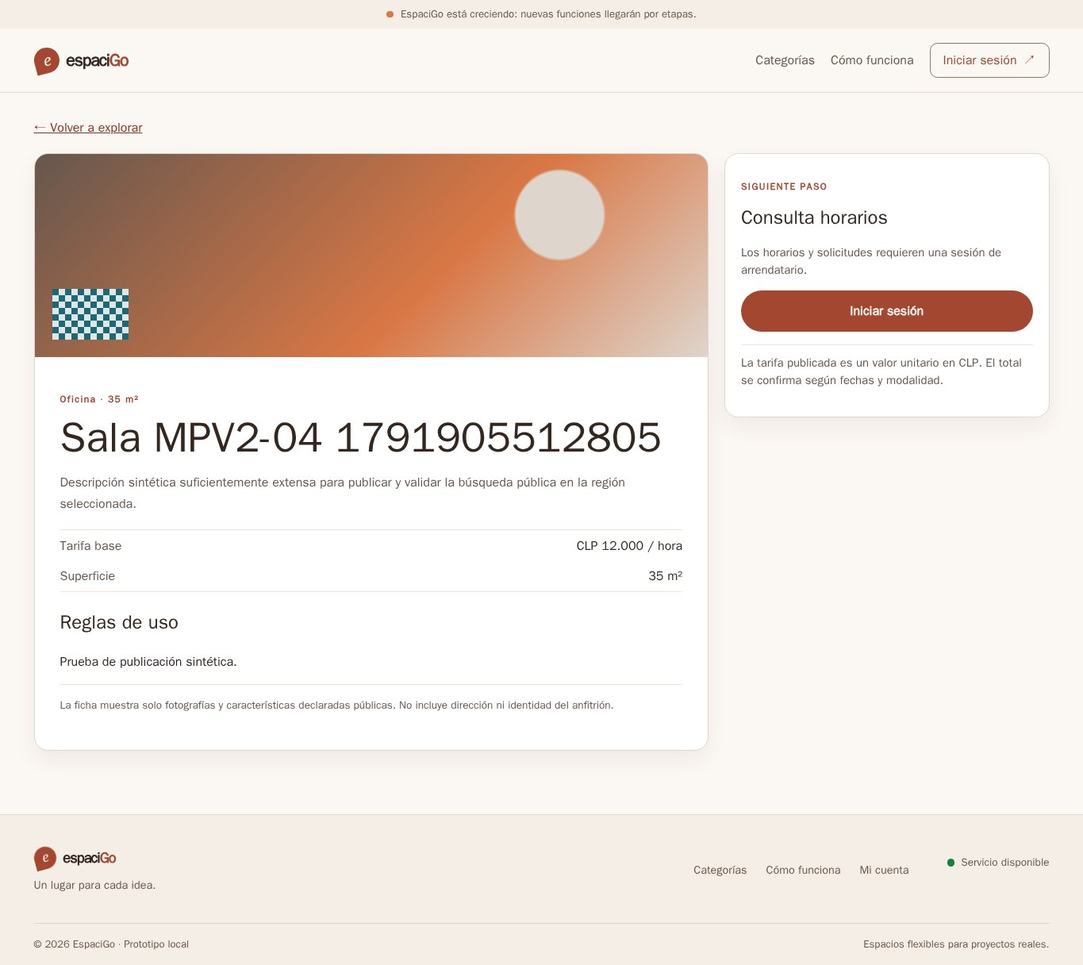
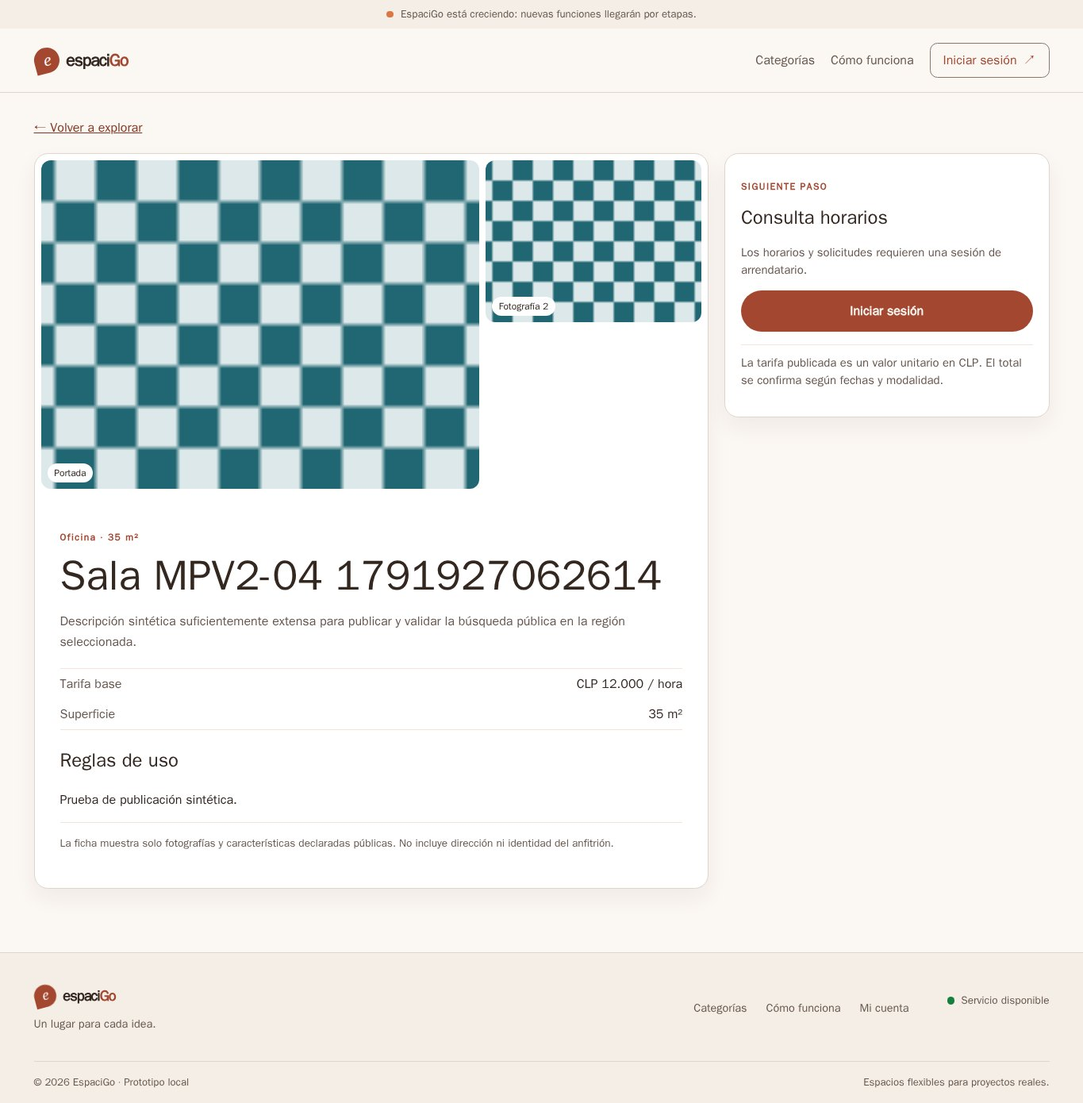
fix(marketplace): address MPV2-04 review

diff --git a/frontend/src/app/features/explore/space-detail-page.spec.ts b/frontend/src/app/features/explore/space-detail-page.spec.ts
@@ -21,6 +21,30 @@ describe('SpaceDetailPage public detail',()=>{
   const fixture=TestBed.createComponent(SpaceDetailPage);fixture.detectChanges();await vi.waitFor(()=>expect(api.publicDetail).toHaveBeenCalledWith('space-123'));await vi.waitFor(()=>expect((fixture.componentInstance as unknown as {space:()=>unknown}).space()).toBeTruthy());fixture.detectChanges();
   expect(fixture.nativeElement.textContent).toContain('Sala pública');expect(fixture.nativeElement.textContent).toContain('CLP 9.007.199.254.740.993');expect(fixture.nativeElement.textContent).toContain('Fotografía no disponible');fixture.destroy();
  });
+ it('renders every public reference with the cover first and omits images that return 404',async()=>{
+  const params=new BehaviorSubject(convertToParamMap({id:'space-123'}));
+  const api={publicDetail:vi.fn().mockResolvedValue({space_id:'space-123',category_code:'oficina',category_name:'Oficina',title:'Galería',description:'Descripción',area_m2:30,rate_unit:'dia',base_price_clp:'9000',currency:'CLP',images:[{image_id:'photo-a',is_cover:false},{image_id:'photo-cover',is_cover:true}]}),publicImageUrl:vi.fn((_spaceId:string,imageId:string)=>`/public/${imageId}`)};
+  TestBed.configureTestingModule({imports:[SpaceDetailPage],providers:[...provideFrontendPorts(),provideHttpClient(),provideRouter([]),{provide:ActivatedRoute,useValue:{paramMap:params.asObservable()}},{provide:ExploreApi,useValue:api}]});
+  const fixture=TestBed.createComponent(SpaceDetailPage);fixture.detectChanges();await vi.waitFor(()=>expect(api.publicDetail).toHaveBeenCalled());await vi.waitFor(()=>expect((fixture.componentInstance as unknown as {space:()=>unknown}).space()).toBeTruthy());fixture.detectChanges();
+  const page=fixture.componentInstance as unknown as {orderedImages(images:{image_id:string;is_cover:boolean}[]):{image_id:string;is_cover:boolean}[];imageFailed(spaceId:string,imageId:string,generation:number):void;imageAvailable(spaceId:string,imageId:string):boolean;selectImage(spaceId:string,imageId:string):void;imageSelected(spaceId:string,imageId:string):boolean;spaceGeneration:()=>number};
+  const images=[{image_id:'photo-a',is_cover:false},{image_id:'photo-cover',is_cover:true}];
+  expect(page.orderedImages(images)).toEqual([{image_id:'photo-cover',is_cover:true},{image_id:'photo-a',is_cover:false}]);
+  expect(fixture.nativeElement.querySelectorAll('.gallery-image img')).toHaveLength(2);
+  expect(fixture.nativeElement.querySelectorAll('button.gallery-image')).toHaveLength(2);page.selectImage('space-123','photo-a');expect(page.imageSelected('space-123','photo-a')).toBe(true);
+  page.imageFailed('space-123','photo-a',page.spaceGeneration());fixture.detectChanges();expect(fixture.nativeElement.querySelectorAll('.gallery-image img')).toHaveLength(1);
+  page.imageFailed('space-old','photo-cover',page.spaceGeneration());expect(page.imageAvailable('space-123','photo-cover')).toBe(true);
+  fixture.destroy();
+ });
+ it('ignores a late detail and image failure from the route that was left',async()=>{
+  const params=new BehaviorSubject(convertToParamMap({id:'space-a'}));let resolveA!:(value:unknown)=>void;
+  const api={publicDetail:vi.fn((id:string)=>id==='space-a'?new Promise(resolve=>{resolveA=resolve;}):Promise.resolve({space_id:'space-b',category_code:'oficina',category_name:'Oficina',title:'Espacio B',description:'Descripción',area_m2:20,rate_unit:'dia',base_price_clp:'9000',currency:'CLP',images:[{image_id:'photo-b',is_cover:true}]})),publicImageUrl:vi.fn((_spaceId:string,imageId:string)=>`/public/${imageId}`)};
+  TestBed.configureTestingModule({imports:[SpaceDetailPage],providers:[...provideFrontendPorts(),provideHttpClient(),provideRouter([]),{provide:ActivatedRoute,useValue:{paramMap:params.asObservable()}},{provide:ExploreApi,useValue:api}]});
+  const fixture=TestBed.createComponent(SpaceDetailPage);fixture.detectChanges();await vi.waitFor(()=>expect(api.publicDetail).toHaveBeenCalledWith('space-a'));
+  params.next(convertToParamMap({id:'space-b'}));await vi.waitFor(()=>expect((fixture.componentInstance as unknown as {space:()=>{space_id:string}|null}).space()?.space_id).toBe('space-b'));
+  const page=fixture.componentInstance as unknown as {imageFailed(spaceId:string,imageId:string,generation:number):void;imageAvailable(spaceId:string,imageId:string):boolean;spaceGeneration:()=>number};
+  page.imageFailed('space-a','photo-b',0);resolveA!({space_id:'space-a',category_code:'oficina',category_name:'Oficina',title:'Espacio A',description:'Descripción',area_m2:20,rate_unit:'dia',base_price_clp:'9000',currency:'CLP',images:[]});await Promise.resolve();fixture.detectChanges();
+  expect((fixture.componentInstance as unknown as {space:()=>{title:string}|null}).space()?.title).toBe('Espacio B');expect(page.imageAvailable('space-b','photo-b')).toBe(true);fixture.destroy();
+ });
  it('keeps public detail during identity changes',async()=>{
   const params=new BehaviorSubject(convertToParamMap({id:'space-123'}));
   const api={publicDetail:vi.fn().mockResolvedValue({space_id:'space-123',category_code:'oficina',category_name:'Oficina',title:'Visible',description:'Descripción',area_m2:30,rate_unit:'dia',base_price_clp:'6000',currency:'CLP'})};

diff --git a/frontend/src/app/features/hosting/hosting-spaces-page.spec.ts b/frontend/src/app/features/hosting/hosting-spaces-page.spec.ts
@@ -81,6 +81,9 @@ function apiFor(base = space()) {
     ),
     remove: vi.fn(async () => ({ files_pending_cleanup: 0 })),
     gallery: vi.fn(async () => ({ items: [], max_photos: 10 as const, synthetic: true as const })),
+    setPhotoPublic: vi.fn(async (_token: string, _spaceId: string, photoId: string, public_in_catalog: boolean) => ({
+      id: photoId, public_in_catalog,
+    } as never)),
     addPhoto: vi.fn(async (_token: string, _spaceId: string, _key: string) => ({
       id: 'photo-1',
       fixture_code: 'synthetic-png-v1' as const,
@@ -1008,5 +1011,42 @@ describe('FE-06 HostingSpacesPage', () => {
     expect(before).toContain('01:30');
     expect(after).toContain('01:30');
     expect(before).not.toBe(after);
+  });
+
+  it('ignores stale photo publication failures without clearing a newer save or session', async () => {
+    const api=apiFor();
+    const idApi={login:vi.fn().mockResolvedValueOnce(login('owner-a','bearer-a')).mockResolvedValueOnce(login('owner-b','bearer-b')),session:vi.fn().mockImplementation(async(token:string)=>({account_id:token==='bearer-a'?'owner-a':'owner-b',roles:['arrendador'],restricted_mode:false})),logout:vi.fn().mockResolvedValue(undefined)};
+    const {identity}=setup(api,null,idApi);await identity.signIn('owner-a@example.invalid','secret');
+    const fixture=TestBed.createComponent(HostingSpacesPage);fixture.detectChanges();await flush();
+    const component=page(fixture);const first=deferred<never>();const second=deferred<never>();
+    api.setPhotoPublic.mockReturnValueOnce(first.promise).mockReturnValueOnce(second.promise);
+    const oldWrite=component.setPhotoPublic('photo-1',true);await flush();
+    await identity.signOut();await identity.signIn('owner-b@example.invalid','secret');await flush();await vi.waitFor(()=>expect(component.selectedSpace()?.id).toBe('space-a'));
+    const newWrite=component.setPhotoPublic('photo-1',true);await flush();
+    first.reject(new HostingApiError('stale unauthorized',401));await oldWrite;
+    expect(identity.accessToken()).toBe('bearer-b');expect(component.saving()).toBe(true);expect(component.error()).toBe('');
+    second.reject(new HostingApiError('current failure',503));await newWrite;
+    expect(component.saving()).toBe(false);expect(component.error()).not.toBe('');fixture.destroy();
+  });
+
+  it('expires the current bearer on a photo publication 401 even when its resource revision changed', async () => {
+    const api=apiFor();const {identity}=setup(api);await identity.signIn('owner@example.invalid','secret');
+    const fixture=TestBed.createComponent(HostingSpacesPage);fixture.detectChanges();await flush();const component=page(fixture);
+    const pending=deferred<never>();api.setPhotoPublic.mockReturnValueOnce(pending.promise);
+    const write=component.setPhotoPublic('photo-1',true);await flush();
+    // A newer resource write supersedes presentation of the old response while retaining its Bearer.
+    const superseding=component.setPhotoPublic('photo-1',false);await flush();
+    pending.reject(new HostingApiError('unauthorized',401));await write;
+    expect(identity.accessToken()).toBeNull();await superseding;fixture.destroy();
+  });
+
+  it('does not let a late successful photo update finish a newer pending write', async () => {
+    const api=apiFor();const {identity}=setup(api);await identity.signIn('owner@example.invalid','secret');
+    const fixture=TestBed.createComponent(HostingSpacesPage);fixture.detectChanges();await flush();const component=page(fixture);await vi.waitFor(()=>expect(component.selectedSpace()?.id).toBe('space-a'));
+    const old=deferred<never>();const current=deferred<never>();api.setPhotoPublic.mockReturnValueOnce(old.promise).mockReturnValueOnce(current.promise);
+    const oldWrite=component.setPhotoPublic('photo-1',true);await flush();const currentWrite=component.setPhotoPublic('photo-1',false);await flush();
+    old.resolve({id:'photo-1',public_in_catalog:true} as never);await oldWrite;
+    expect(component.saving()).toBe(true);expect(component.gallery().find(photo=>photo.id==='photo-1')?.public_in_catalog).not.toBe(true);
+    current.reject(new HostingApiError('current failure',503));await currentWrite;fixture.destroy();
   });
 });

diff --git a/frontend/src/app/features/explore/space-detail-page.ts b/frontend/src/app/features/explore/space-detail-page.ts
@@ -1,5 +1,5 @@
 import { UiButton } from '../../shared/ui/button/button';
-import { Component, inject } from '@angular/core';
+import { Component, effect, inject, signal } from '@angular/core';
 import { RouterLink } from '@angular/router';
 import { SpaceDetailFacade } from './application/space-detail-facade';
 
@@ -12,6 +12,22 @@ import { SpaceDetailFacade } from './application/space-detail-facade';
 })
 export class SpaceDetailPage {
   private readonly facade = inject(SpaceDetailFacade);
+  readonly failedImages = signal<{ spaceId: string; generation: number; ids: Set<string> }>({ spaceId: '', generation: 0, ids: new Set() });
+  readonly selectedImage = signal<{ spaceId: string; generation: number; imageId: string } | null>(null);
+  readonly spaceGeneration = signal(0);
+  private observedSpaceId = '';
+  constructor() {
+    effect(() => {
+      const spaceId = this.space()?.space_id ?? '';
+      if (spaceId !== this.observedSpaceId) {
+        this.observedSpaceId = spaceId;
+        const generation = this.spaceGeneration() + 1;
+        this.spaceGeneration.set(generation);
+        this.failedImages.set({ spaceId, generation, ids: new Set() });
+        this.selectedImage.set(null);
+      }
+    });
+  }
   get space() {
     return this.facade.space;
   }
@@ -63,4 +79,29 @@ export class SpaceDetailPage {
   readonly attributeLabel = this.facade.attributeLabel.bind(this.facade);
   readonly attributeValue = this.facade.attributeValue.bind(this.facade);
   readonly publicImageUrl = this.facade.publicImageUrl.bind(this.facade);
+  orderedImages(images: { image_id: string; is_cover: boolean }[] = []) {
+    return [...images].sort((a, b) => Number(b.is_cover) - Number(a.is_cover));
+  }
+  imageFailed(spaceId: string, imageId: string, generation: number): void {
+    if (this.space()?.space_id !== spaceId || this.spaceGeneration() !== generation) return;
+    const state = this.failedImages();
+    const ids = state.spaceId === spaceId && state.generation === generation ? new Set(state.ids) : new Set<string>();
+    ids.add(imageId);
+    this.failedImages.set({ spaceId, generation, ids });
+  }
+  imageAvailable(spaceId: string, imageId: string): boolean {
+    const state = this.failedImages();
+    return state.spaceId !== spaceId || state.generation !== this.spaceGeneration() || !state.ids.has(imageId);
+  }
+  hasAvailableImage(spaceId: string, images: { image_id: string; is_cover: boolean }[] = []): boolean {
+    return images.some((image) => this.imageAvailable(spaceId, image.image_id));
+  }
+  selectImage(spaceId: string, imageId: string): void {
+    if (this.space()?.space_id === spaceId && this.imageAvailable(spaceId, imageId))
+      this.selectedImage.set({ spaceId, generation: this.spaceGeneration(), imageId });
+  }
+  imageSelected(spaceId: string, imageId: string): boolean {
+    const selected = this.selectedImage();
+    return selected?.spaceId === spaceId && selected.generation === this.spaceGeneration() && selected.imageId === imageId;
+  }
 }

diff --git a/frontend/src/app/features/explore/space-detail-page.html b/frontend/src/app/features/explore/space-detail-page.html
@@ -5,7 +5,12 @@
   @if(space();as item){
     <div class="detail-grid">
       <article class="space-detail panel">
-        @if(item.images?.length){<div class="cover"><img [src]="publicImageUrl(item.images[0].image_id)" alt="Fotografía pública del espacio" loading="lazy" /></div>}@else{<div class="cover" aria-label="Fotografía no disponible"><span>Fotografía no disponible</span><b aria-hidden="true">✳</b></div>}
+        @if(item.images?.length){<div class="gallery" aria-label="Galería pública del espacio">
+          @for(image of orderedImages(item.images);track image.image_id;let index=$index){
+            @if(imageAvailable(item.space_id,image.image_id)){<button class="gallery-image" [class.cover-image]="index===0" [class.selected-image]="imageSelected(item.space_id,image.image_id)" type="button" [attr.aria-pressed]="imageSelected(item.space_id,image.image_id)" [attr.aria-label]="(image.is_cover?'Portada':'Fotografía '+(index+1))+', seleccionar fotografía'" (click)="selectImage(item.space_id,image.image_id)"><img [src]="publicImageUrl(image.image_id)" [alt]="image.is_cover?'Fotografía de portada del espacio':'Fotografía pública '+(index+1)" loading="lazy" (error)="imageFailed(item.space_id,image.image_id,spaceGeneration())" /><span class="gallery-caption">{{image.is_cover?'Portada':'Fotografía '+(index+1)}}</span></button>}
+          }
+          @if(!hasAvailableImage(item.space_id,item.images)){<div class="cover" aria-label="Fotografías no disponibles"><span>Fotografías no disponibles</span><b aria-hidden="true">✳</b></div>}
+        </div>}@else{<div class="cover" aria-label="Fotografía no disponible"><span>Fotografía no disponible</span><b aria-hidden="true">✳</b></div>}
         <div class="copy"><p class="eyebrow">{{item.category_name}} · {{item.area_m2}} m²</p><h1>{{item.title}}</h1>
           <p class="description">{{item.description}}</p><div class="facts"><p><span>Tarifa base</span><strong>{{formatClp(item.base_price_clp)}} / {{item.rate_unit}}</strong></p><p><span>Superficie</span><strong>{{item.area_m2}} m²</strong></p></div>
           @if(item.usage_rules){<h2>Reglas de uso</h2><p>{{item.usage_rules}}</p>}

diff --git a/frontend/src/app/features/explore/space-detail-page.scss b/frontend/src/app/features/explore/space-detail-page.scss
@@ -42,6 +42,13 @@
     radial-gradient(circle at 78% 30%, var(--color-border) 0 8%, transparent 8.5%),
     linear-gradient(135deg, var(--color-text-muted), var(--brand-accent) 60%, var(--color-border));
 }
+.gallery { display:grid; grid-template-columns:repeat(auto-fit,minmax(9rem,1fr)); gap:metrics.$space-0-5rem; padding:metrics.$space-0-5rem; }
+.gallery-image { position:relative; display:block; min-width:0; aspect-ratio:4/3; overflow:hidden; border:0; border-radius:var(--radius-lg); padding:0; background:var(--color-surface-subtle); cursor:pointer; }
+.gallery-image:focus-visible { outline:3px solid var(--brand-primary); outline-offset:2px; }
+.gallery-image.selected-image { box-shadow:0 0 0 3px var(--brand-primary); }
+.gallery-image.cover-image { grid-column:span 2; grid-row:span 2; }
+.gallery-image img { display:block; width:100%; height:100%; object-fit:cover; }
+.gallery-caption { position:absolute; inset:auto auto metrics.$space-0-5rem metrics.$space-0-5rem; border-radius:999px; padding:metrics.$space-0-2rem metrics.$space-0-55rem; background:var(--color-surface); color:var(--color-text); font-size:metrics.$font-size-0-75rem; }
 .cover b {
   font-size: metrics.$font-size-5rem;
   line-height: metrics.$line-height-0-8;
@@ -214,6 +221,8 @@ pre {
   .cover {
     min-height: 10rem;
   }
+  .gallery { grid-template-columns:repeat(2,minmax(0,1fr)); }
+  .gallery-image.cover-image { grid-column:span 2; grid-row:span 1; }
   dl > div {
     align-items: start;
     flex-direction: column;

diff --git a/frontend/src/app/features/hosting/application/hosting-spaces-facade.ts b/frontend/src/app/features/hosting/application/hosting-spaces-facade.ts
@@ -956,10 +956,10 @@ export class HostingSpacesFacade implements OnInit, OnDestroy {
 
   async setPhotoPublic(photoId:string,enabled:boolean):Promise<void>{
     const context=this.context();const space=this.selectedSpace();if(!context||!space)return;
-    const revision=++this.resourceGeneration;this.saving.set(true);this.error.set('');
-    try{const updated=await this.api.setPhotoPublic(context.token,space.id,photoId,enabled);if(!this.contextCurrent(context)||revision!==this.resourceGeneration||this.selectedSpace()?.id!==space.id)return;this.gallery.update(items=>items.map(item=>item.id===photoId?updated:item));}
-    catch{this.error.set('No se pudo actualizar la visibilidad de la imagen.');}
-    finally{this.saving.set(false);}
+    const revision=++this.resourceGeneration;const operation=this.beginSaving();this.error.set('');
+    try{const updated=await this.api.setPhotoPublic(context.token,space.id,photoId,enabled);if(!this.writeCurrent(context,revision,space.id))return;this.gallery.update(items=>items.map(item=>item.id===photoId?updated:item));}
+    catch(error){this.fail(error,context,this.writeCurrent(context,revision,space.id));}
+    finally{this.finishSaving(operation);}
   }
 
   setRateUnit(unit: 'hora' | 'dia' | 'mes'): void {

diff --git a/internal/adapters/postgres/spaces/publication_integration_test.go b/internal/adapters/postgres/spaces/publication_integration_test.go
@@ -27,6 +27,7 @@ import (
 	bookinghttp "github.com/HernanEspinozaDev/espaciGo/internal/booking/transport/http"
 	"github.com/HernanEspinozaDev/espaciGo/internal/dbbootstrap"
 	"github.com/HernanEspinozaDev/espaciGo/internal/gallery"
+	galleryhttp "github.com/HernanEspinozaDev/espaciGo/internal/gallery/transport/http"
 	"github.com/HernanEspinozaDev/espaciGo/internal/identity"
 	"github.com/HernanEspinozaDev/espaciGo/internal/migrator"
 	"github.com/HernanEspinozaDev/espaciGo/internal/occupancy"
@@ -492,7 +493,28 @@ func TestLocalPublicationRequiresEffectiveKYCAndRecordsOwnerTransitions(t *testi
 			t.Fatalf("invalid location edit changed persisted location: %+v err=%v", stored, getErr)
 		}
 	}
-	publicService, err := publiccatalog.New(publiccatalogpg.New(pool), []byte("space-public-search-test-master-key-32"))
+	publicImageRoot, err := os.MkdirTemp("", "espacigo-public-image-")
+	if err != nil {
+		t.Fatal(err)
+	}
+	defer os.RemoveAll(publicImageRoot)
+	if err = os.Chmod(publicImageRoot, 0o700); err != nil {
+		t.Fatal(err)
+	}
+	publicFiles, err := evidencefs.New(publicImageRoot)
+	if err != nil {
+		t.Fatal(err)
+	}
+	publicGallery, err := gallery.NewService(gallerypg.New(pool), publicFiles, credentials.Generator{}, time.Now)
+	if err != nil {
+		t.Fatal(err)
+	}
+	publicPhoto, _, err := publicGallery.AddSynthetic(ctx, owner, fixtureDraft.ID, "public-image-check-01")
+	if err != nil {
+		t.Fatal(err)
+	}
+	publicPhotoHandler := galleryhttp.NewHandler(apiAuth, publicGallery, nil)
+	publicService, err := publiccatalog.NewWithImageStore(publiccatalogpg.New(pool), []byte("space-public-search-test-master-key-32"), publicFiles)
 	if err != nil {
 		t.Fatal(err)
 	}
@@ -505,6 +527,91 @@ func TestLocalPublicationRequiresEffectiveKYCAndRecordsOwnerTransitions(t *testi
 	publicHandler.ServeHTTP(publicDetailResponse, httptest.NewRequest(http.MethodGet, "/api/v1/public/spaces/"+fixtureDraft.ID, nil))
 	if publicDetailResponse.Code != http.StatusOK || !strings.Contains(publicDetailResponse.Body.String(), `"images":[]`) || strings.Contains(publicDetailResponse.Body.String(), "Dirección sintética") {
 		t.Fatalf("public detail HTTP status=%d body=%s", publicDetailResponse.Code, publicDetailResponse.Body.String())
+	}
+	publicImagePath := "/api/v1/public/spaces/" + fixtureDraft.ID + "/images/" + publicPhoto.ID
+	readPublicImage := func(path string) *httptest.ResponseRecorder {
+		rr := httptest.NewRecorder()
+		publicHandler.ServeHTTP(rr, httptest.NewRequest(http.MethodGet, path, nil))
+		return rr
+	}
+	assertPrivateImage404 := func(path string) {
+		rr := readPublicImage(path)
+		if rr.Code != 404 || rr.Header().Get("Cache-Control") != "no-store" || strings.Contains(rr.Body.String(), publicPhoto.ID) || strings.Contains(rr.Body.String(), publicPhoto.SHA256) {
+			t.Fatalf("private image response=%d headers=%v body=%s", rr.Code, rr.Header(), rr.Body.String())
+		}
+	}
+	assertPrivateImage404(publicImagePath)                                                                       // New photos stay private until the owner opts in.
+	assertPrivateImage404("/api/v1/public/spaces/aaaaaaaa-aaaa-4aaa-8aaa-aaaaaaaaaaaa/images/" + publicPhoto.ID) // A photo ID cannot cross spaces.
+	kycEvidenceID := "20000000-0000-4000-8000-000000000001"
+	if _, err = adminPool.Exec(ctx, `INSERT INTO public.verificacion_evidencia_sintetica(id,verificacion_id,codigo_fixture,mime_type,tamano_bytes,sha256,archivo_id,retirar_archivo_en) VALUES($1,$2,'synthetic-png-v1','image/png',128,repeat('a',64),$1,now()+interval '90 days')`, kycEvidenceID, verificationID); err != nil {
+		t.Fatal(err)
+	}
+	assertPrivateImage404("/api/v1/public/spaces/" + fixtureDraft.ID + "/images/" + kycEvidenceID) // KYC evidence IDs are not gallery IDs.
+	markPublic := func(enabled bool) *httptest.ResponseRecorder {
+		raw := `false`
+		if enabled {
+			raw = `true`
+		}
+		return invokePublicationAPI(publicPhotoHandler, http.MethodPut, "/api/v1/spaces/"+fixtureDraft.ID+"/gallery/"+publicPhoto.ID+"/publication", "owner-token", []byte(`{"public_in_catalog":`+raw+`}`))
+	}
+	if response := markPublic(true); response.Code != http.StatusOK {
+		t.Fatalf("owner publish photo status=%d body=%s", response.Code, response.Body.String())
+	}
+	publicImage := readPublicImage(publicImagePath)
+	if publicImage.Code != http.StatusOK || publicImage.Header().Get("Content-Type") != "image/png" || publicImage.Header().Get("Cache-Control") != "no-store" || publicImage.Header().Get("X-Content-Type-Options") != "nosniff" || len(publicImage.Body.Bytes()) == 0 {
+		t.Fatalf("public image status=%d headers=%v bodylen=%d", publicImage.Code, publicImage.Header(), publicImage.Body.Len())
+	}
+	if response := invokePublicationAPI(publicPhotoHandler, http.MethodPut, "/api/v1/spaces/"+fixtureDraft.ID+"/gallery/"+publicPhoto.ID+"/publication", "renter-token", []byte(`{"public_in_catalog":false}`)); response.Code == http.StatusOK {
+		t.Fatalf("non-owner withdrew public photo: %s", response.Body.String())
+	}
+	if response := markPublic(false); response.Code != http.StatusOK {
+		t.Fatalf("owner withdraw photo status=%d body=%s", response.Code, response.Body.String())
+	}
+	assertPrivateImage404(publicImagePath)
+	if response := markPublic(true); response.Code != http.StatusOK {
+		t.Fatalf("republish photo status=%d body=%s", response.Code, response.Body.String())
+	}
+	if _, err = adminPool.Exec(ctx, `UPDATE public.elegibilidad_verificacion_local SET estado='revocada',revocada_en=now(),revocada_por=$2,motivo_revocacion_codigo='revision_fixture_actualizada' WHERE usuario_id=$1 AND tipo='kyc'`, owner, adminID); err != nil {
+		t.Fatal(err)
+	}
+	assertPrivateImage404(publicImagePath)
+	if _, err = adminPool.Exec(ctx, `UPDATE public.elegibilidad_verificacion_local SET estado='elegible',revocada_en=NULL,revocada_por=NULL,motivo_revocacion_codigo=NULL WHERE usuario_id=$1 AND tipo='kyc'`, owner); err != nil {
+		t.Fatal(err)
+	}
+	if _, err = adminPool.Exec(ctx, `INSERT INTO public.bloqueo_cuenta_administrativo_local(cuenta_id,bloqueada_por,motivo_codigo,bloqueada_en,correlacion_id) VALUES($1,$2,'revision_administrativa',now(),'public-image-block-test')`, owner, adminID); err != nil {
+		t.Fatal(err)
+	}
+	assertPrivateImage404(publicImagePath)
+	if _, err = adminPool.Exec(ctx, `DELETE FROM public.bloqueo_cuenta_administrativo_local WHERE cuenta_id=$1`, owner); err != nil {
+		t.Fatal(err)
+	}
+	if _, err = svc.SetPublicationState(ctx, owner, fixtureDraft.ID, "oculta", "public-image-hide-test"); err != nil {
+		t.Fatal(err)
+	}
+	assertPrivateImage404(publicImagePath)
+	if _, err = adminPool.Exec(ctx, `UPDATE public.espacio SET zona_horaria='UTC' WHERE id=$1`, fixtureDraft.ID); err != nil {
+		t.Fatal(err)
+	}
+	if _, err = svc.SetPublicationState(ctx, owner, fixtureDraft.ID, "activa", "public-image-unhide-test"); err != nil {
+		t.Fatal(err)
+	}
+	retiredPhoto, _, err := publicGallery.AddSynthetic(ctx, owner, fixtureDraft.ID, "public-image-check-retired")
+	if err != nil {
+		t.Fatal(err)
+	}
+	if _, err = publicGallery.SetPublicInCatalog(ctx, owner, fixtureDraft.ID, retiredPhoto.ID, true); err != nil {
+		t.Fatal(err)
+	}
+	retiredPath := "/api/v1/public/spaces/" + fixtureDraft.ID + "/images/" + retiredPhoto.ID
+	if _, err = publicGallery.Remove(ctx, owner, fixtureDraft.ID, retiredPhoto.ID); err != nil {
+		t.Fatal(err)
+	}
+	assertPrivateImage404(retiredPath) // A physically retired photo is no longer readable.
+	if _, err = publicGallery.Remove(ctx, owner, fixtureDraft.ID, publicPhoto.ID); err != nil {
+		t.Fatal(err)
+	}
+	if err = publicGallery.CleanRetiredOnce(ctx, 20); err != nil {
+		t.Fatal(err)
 	}
 	publicQuery := "/api/v1/public/spaces?q=" + url.QueryEscape("Título publicado editado") + "&region_code=13&comuna_code=13123"
 	publicResponse := httptest.NewRecorder()
@@ -750,10 +857,14 @@ func TestLocalPublicationRequiresEffectiveKYCAndRecordsOwnerTransitions(t *testi
 	if _, err = galleryService.SelectCover(ctx, owner, fixtureDraft.ID, photo.ID); err != nil {
 		t.Fatal(err)
 	}
+	if _, err = galleryService.SetPublicInCatalog(ctx, owner, fixtureDraft.ID, photo.ID, true); err != nil {
+		t.Fatal(err)
+	}
 	deleted := invokePublicationAPI(spacesAPI, http.MethodDelete, "/api/v1/spaces/"+fixtureDraft.ID, "owner-token", nil)
-	if deleted.Code != http.StatusOK || !strings.Contains(deleted.Body.String(), `"state":"eliminada"`) || !strings.Contains(deleted.Body.String(), `"files_pending_cleanup":1`) {
+	if deleted.Code != http.StatusOK || !strings.Contains(deleted.Body.String(), `"state":"eliminada"`) || !strings.Contains(deleted.Body.String(), `"files_pending_cleanup":`) {
 		t.Fatalf("delete eligible publication status=%d body=%s", deleted.Code, deleted.Body.String())
 	}
+	assertPrivateImage404("/api/v1/public/spaces/" + fixtureDraft.ID + "/images/" + photo.ID) // Deleted space is no longer eligible even before file cleanup.
 	if _, err = repo.GetOwn(ctx, owner, fixtureDraft.ID); err != spaces.ErrNotFound {
 		t.Fatalf("deleted offer remains owner-visible: %v", err)
 	}
@@ -779,7 +890,7 @@ func TestLocalPublicationRequiresEffectiveKYCAndRecordsOwnerTransitions(t *testi
 	var fileID *string
 	var summary []byte
 	var histories int
-	if err = adminPool.QueryRow(ctx, `SELECT s.estado,s.portada_foto_id::text,g.estado,g.archivo_id::text,h.resumen,(SELECT count(*) FROM public.espacio_eliminacion_historial_local WHERE espacio_id=s.id) FROM public.espacio s JOIN public.espacio_galeria_sintetica_local g ON g.espacio_id=s.id JOIN public.espacio_eliminacion_historial_local h ON h.espacio_id=s.id WHERE s.id=$1`, fixtureDraft.ID).Scan(&storedState, &storedCover, &photoState, &fileID, &summary, &histories); err != nil {
+	if err = adminPool.QueryRow(ctx, `SELECT s.estado,s.portada_foto_id::text,g.estado,g.archivo_id::text,h.resumen,(SELECT count(*) FROM public.espacio_eliminacion_historial_local WHERE espacio_id=s.id) FROM public.espacio s JOIN public.espacio_galeria_sintetica_local g ON g.espacio_id=s.id JOIN public.espacio_eliminacion_historial_local h ON h.espacio_id=s.id WHERE s.id=$1 AND g.id=$2`, fixtureDraft.ID, photo.ID).Scan(&storedState, &storedCover, &photoState, &fileID, &summary, &histories); err != nil {
 		t.Fatal(err)
 	}
 	if storedState != "eliminada" || storedCover != nil || photoState != "retirada" || fileID == nil || histories != 1 {
@@ -823,7 +934,7 @@ func TestLocalPublicationRequiresEffectiveKYCAndRecordsOwnerTransitions(t *testi
 	if _, err = svc.DeleteOwn(ctx, other, fixtureDraft.ID, "foreign-delete"); err != spaces.ErrNotFound {
 		t.Fatalf("foreign delete error=%v", err)
 	}
-	if err = adminPool.QueryRow(ctx, `SELECT count(*) FROM public.espacio_publicacion_historial_local WHERE espacio_id=$1`, fixtureDraft.ID).Scan(&count); err != nil || count != 2 {
+	if err = adminPool.QueryRow(ctx, `SELECT count(*) FROM public.espacio_publicacion_historial_local WHERE espacio_id=$1`, fixtureDraft.ID).Scan(&count); err != nil || count != 4 {
 		t.Fatalf("publication history not preserved count=%d err=%v", count, err)
 	}
 	archiveSections, err := repo.ExportOwnArchiveSections(ctx, owner)

diff --git a/planning/marketplace_publico_v2/evidencia/mpv2_04/README.md b/planning/marketplace_publico_v2/evidencia/mpv2_04/README.md
@@ -1,21 +1,20 @@
 # Evidencia MPV2-04 · Fotos y ficha pública
 
-**Fecha:** 2026-10-13. **Base:** merge de MPV2-03 #297, `0fe7785352ba91972d4ec403d24b4cd085d5477e`. **HEAD de código probado:** `18099504fe8bffecbf6a5c3d77ec9e04e9f0dd9f` (`codex/marketplace/feature/mpv2-04-public-images-detail`). Las capturas y mediciones siguientes se generaron desde ese árbol.
+**Fecha:** 2026-10-13. **Base:** merge de MPV2-03 #297, `0fe7785352ba91972d4ec403d24b4cd085d5477e`. **Rama/PR:** `codex/marketplace/feature/mpv2-04-public-images-detail`, #298. HEAD probado actualizado al publicar esta revisión.
 
 ## Recorrido FE-14 conectado
 
-El ensayo usó el proyecto Compose aislado `espacigo_fe14_84ba3ad02c78`, API/Angular/Mailpit en puertos `19020/19022/19021` y volumen PostgreSQL `espacigo_fe14_84ba3ad02c78_pgdata`. La configuración resuelta no montó `espacigo_pgdata`. El script retiró contenedores, red, volumen y estado temporal al terminar; las cuentas sintéticas y sus credenciales temporales también se eliminaron.
+El ensayo de revisión usó el proyecto Compose aislado `espacigo_fe14_44fef7d8d012`, API/Angular/Mailpit en puertos `18780/18782/18781` y volumen PostgreSQL `espacigo_fe14_44fef7d8d012_pgdata`. La configuración resuelta no montó `espacigo_pgdata`. El script retiró contenedores, red, volumen y estado temporal al terminar; las cuentas sintéticas y sus credenciales temporales también se eliminaron.
 
-Resultado: **2/2 pruebas FE-14 aprobadas**. Un anfitrión creó un PNG sintético privado por defecto, lo declaró público y un visitante sin Bearer consultó catálogo, ficha e imagen. La respuesta binaria fue `image/png`, `Cache-Control: no-store` y `X-Content-Type-Options: nosniff`. Al retirar la publicación, la misma URL respondió 404. Los logs del Backend no incluyeron correo ni contraseña sintéticos.
+Resultado: **2/2 pruebas FE-14 aprobadas**. El anfitrión generó tres PNG sintéticos: dos declarados públicos (una portada y una imagen de galería) y uno privado, excluido del DTO. Un visitante sin Bearer consultó la ficha y ambas imágenes; el endpoint binario respondió `image/png`, `Cache-Control: no-store` y `X-Content-Type-Options: nosniff`. El anfitrión retiró una foto; su URL respondió 404 y al recargar la ficha permaneció la otra imagen cargada correctamente. Esto prueba retirada de una foto, no ocultación de la publicación completa. Los logs del Backend no incluyeron correo ni contraseña sintéticos.
 
 ## Verificaciones
 
 - `go test ./...` — aprobado.
-- PostgreSQL aislado, `./internal/adapters/postgres/gallery` — aprobado con V56; default privado, publicación/retirada por anfitrión y rechazo a otro propietario.
-- PostgreSQL aislado, `./internal/adapters/postgres/spaces -run '^TestLocalPublicationRequiresEffectiveKYCAndRecordsOwnerTransitions$' -count=1` — aprobado; DTO HTTP de detalle minimizado.
-- `npm test` — 199/199 pruebas aprobadas.
-- `npm run api:check`, `npm run lint` y `npm run build` — aprobados.
-- FE-14: `FE14_PUBLIC_ONLY=1 FE14_PORT_BASE=19020 FE14_EVIDENCE_OUTPUT_DIR=planning/marketplace_publico_v2/evidencia/mpv2_04 bash scripts/test-frontend-e2e.sh` — 2/2 aprobadas.
+- PostgreSQL/PostGIS desechable, `scripts/test-local-comm-mailpit.sh ./internal/adapters/postgres/spaces -run '^TestLocalPublicationRequiresEffectiveKYCAndRecordsOwnerTransitions$' -count=1` — aprobado con V56. Prueba GET 404 genérico/no-store para foto privada por defecto, asociación cruzada, ID de evidencia KYC, publicación revocada, cuenta bloqueada, elegibilidad KYC revocada, espacio oculto/eliminado y foto retirada; verifica lectura binaria anónima con headers y que propietario publica/retira mientras tercero no puede hacerlo.
+- `npm test -- --watch=false` — actualizado en esta revisión.
+- `npm run api:check`, `npm run lint` y `npm run build` — aprobados en esta revisión.
+- FE-14 aislado: `FE14_PUBLIC_ONLY=1 FE14_EVIDENCE_OUTPUT_DIR=planning/marketplace_publico_v2/evidencia/mpv2_04 bash scripts/test-frontend-e2e.sh` — 2/2 aprobadas, con dos fotos públicas, una privada y retirada/recarga.
 - GitHub Actions de PR #298, ejecución [38423547641](https://github.com/HernanEspinozaDev/espaciGo/actions/runs/38423547641) — frontend aprobado: lint, `api:check`, unitarias, build y `npm audit --omit=dev`.
 
 ## Capturas
@@ -24,14 +23,14 @@ Los JSON adjuntos registran viewport CSS y dimensiones del documento. En captura
 
 | Captura | Viewport CSS | JPEG | SHA-256 |
 | --- | ---: | ---: | --- |
[16 lines of base64/hex data omitted]
 
 ## Límites
 
